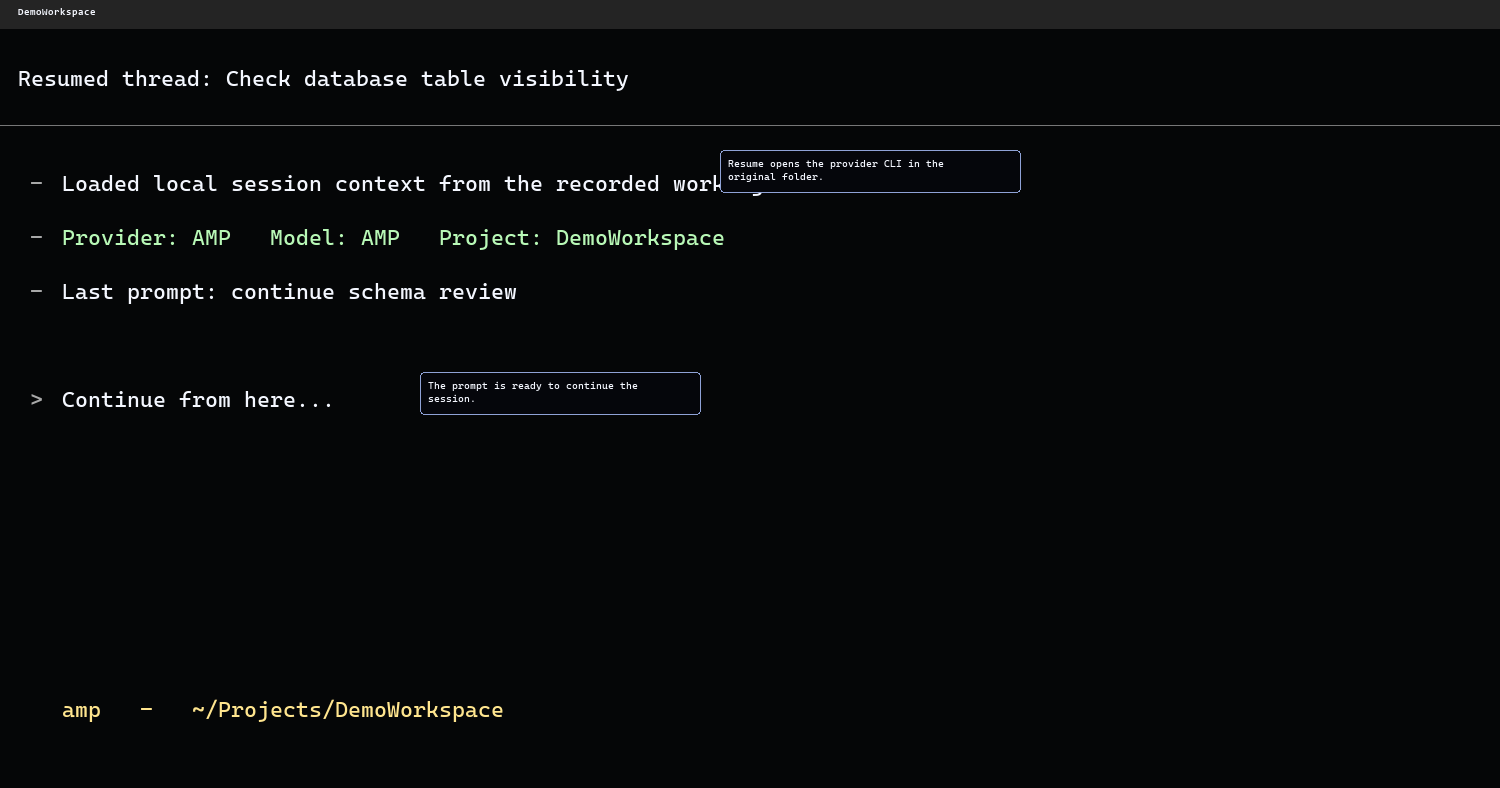
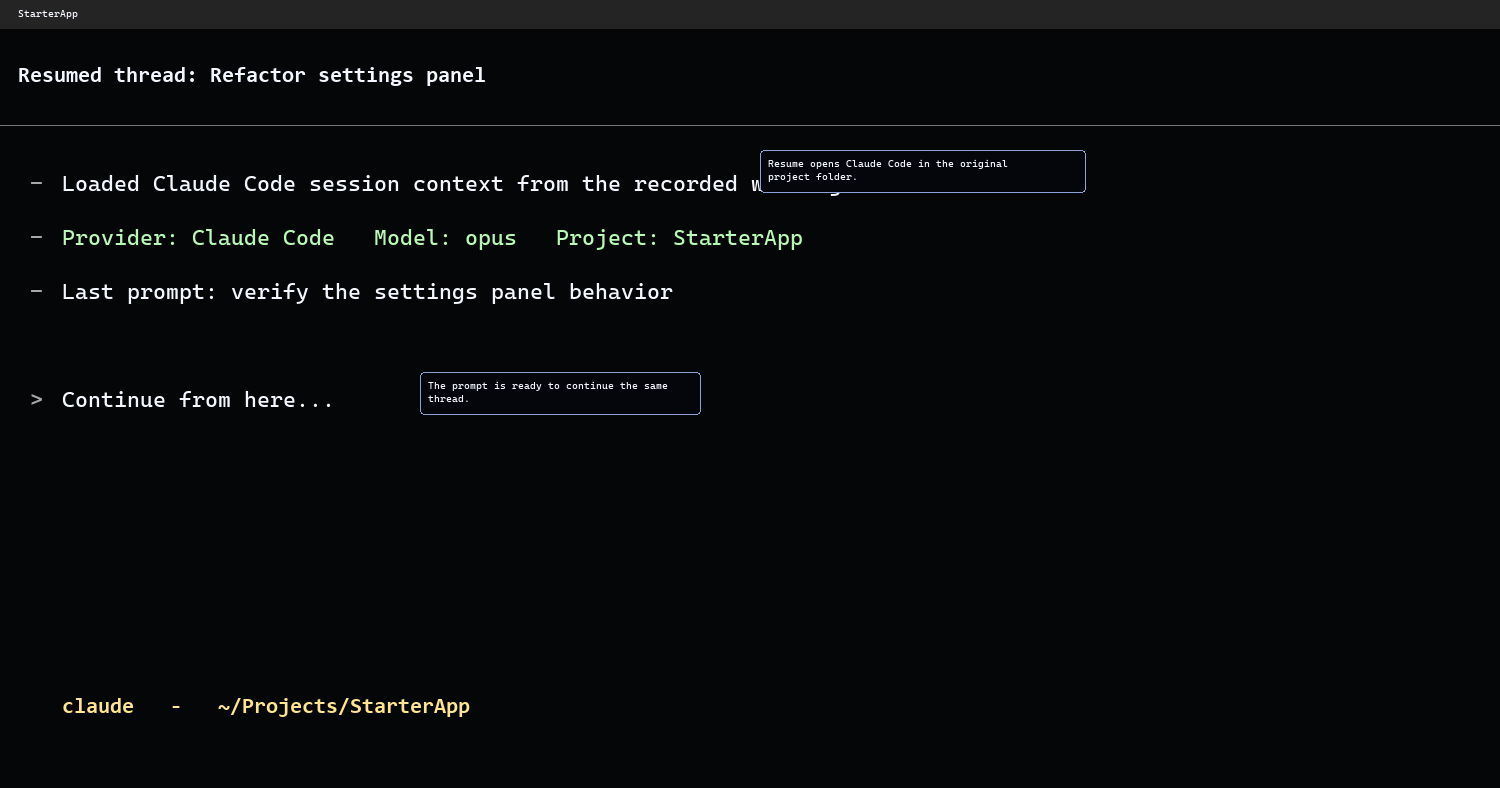
Show Claude Code resume example

diff --git a/README.md b/README.md
@@ -191,7 +191,7 @@ Opens a read-only transcript window so users can inspect a longer conversation b
 
 ![Session Portal resumed terminal](App/assets/session-portal-resume-terminal.png)
 
-Shows the expected resume behavior: Session Portal opens the matching CLI in the recorded working folder.
+Shows the expected resume behavior with Claude Code: Session Portal opens the matching CLI in the recorded working folder.
 
 These are the main UI states shown in the app screenshots:
 